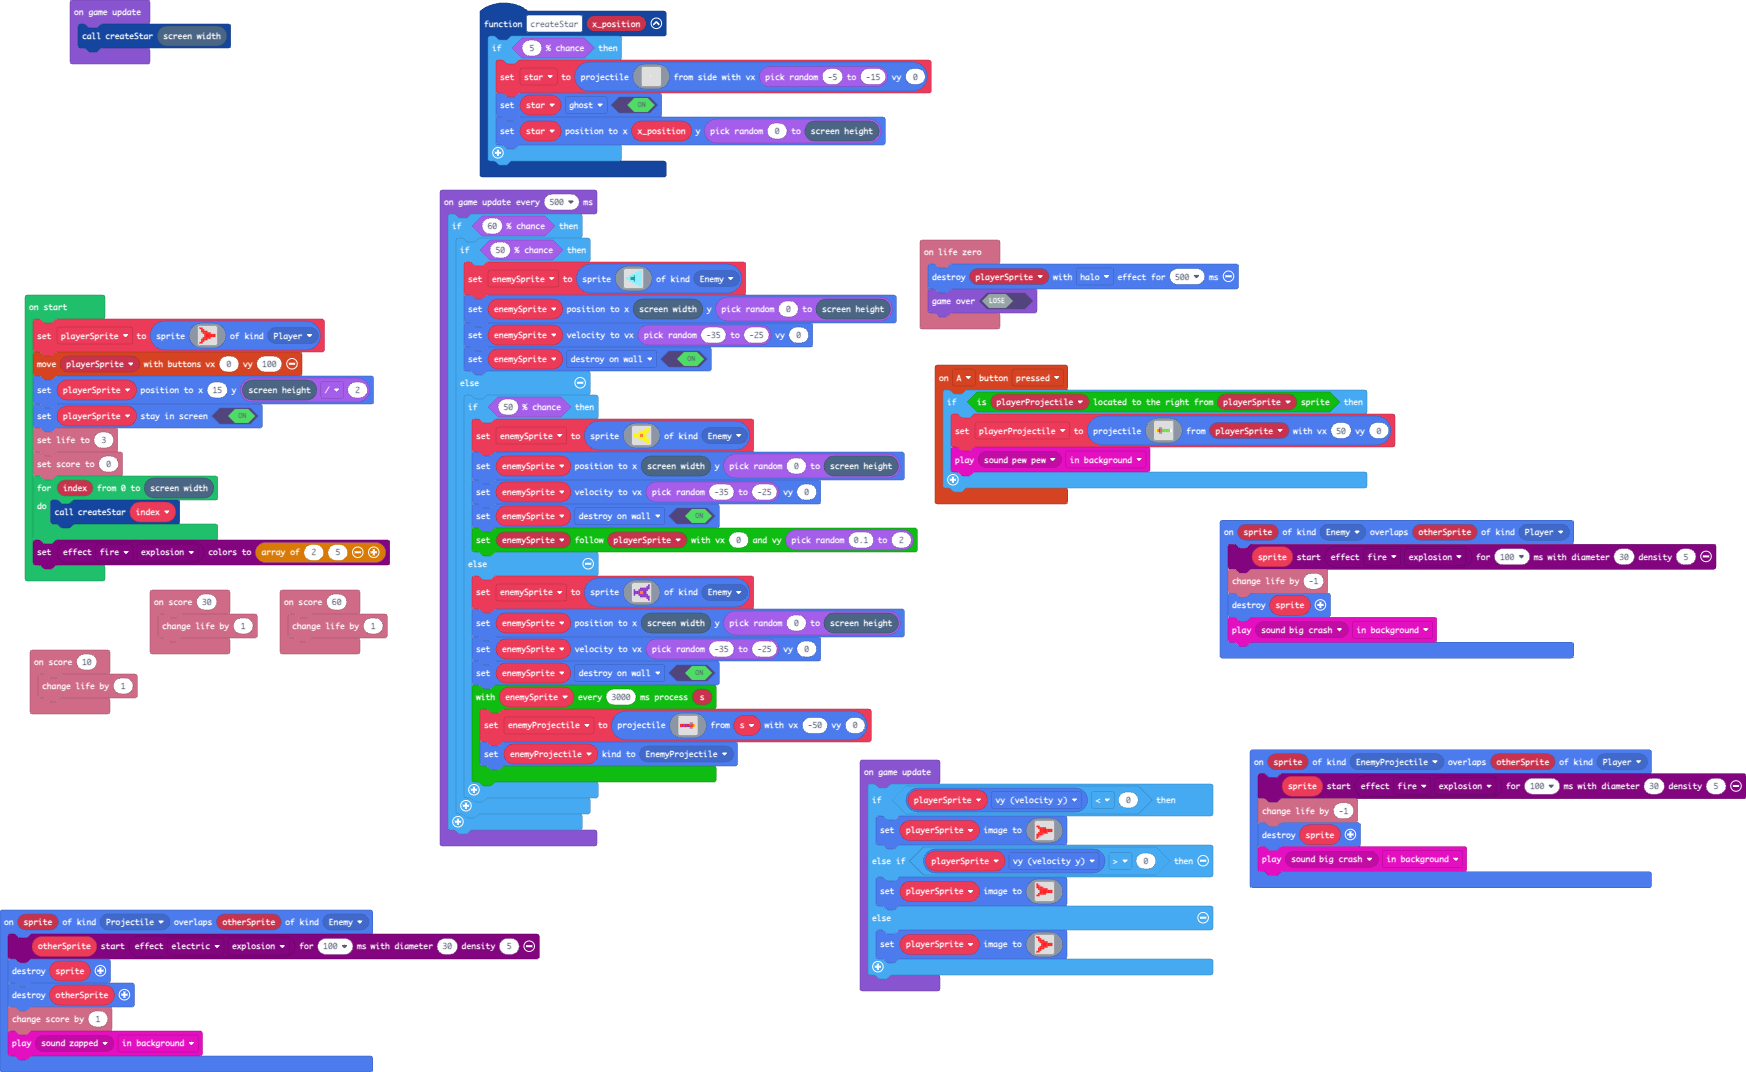
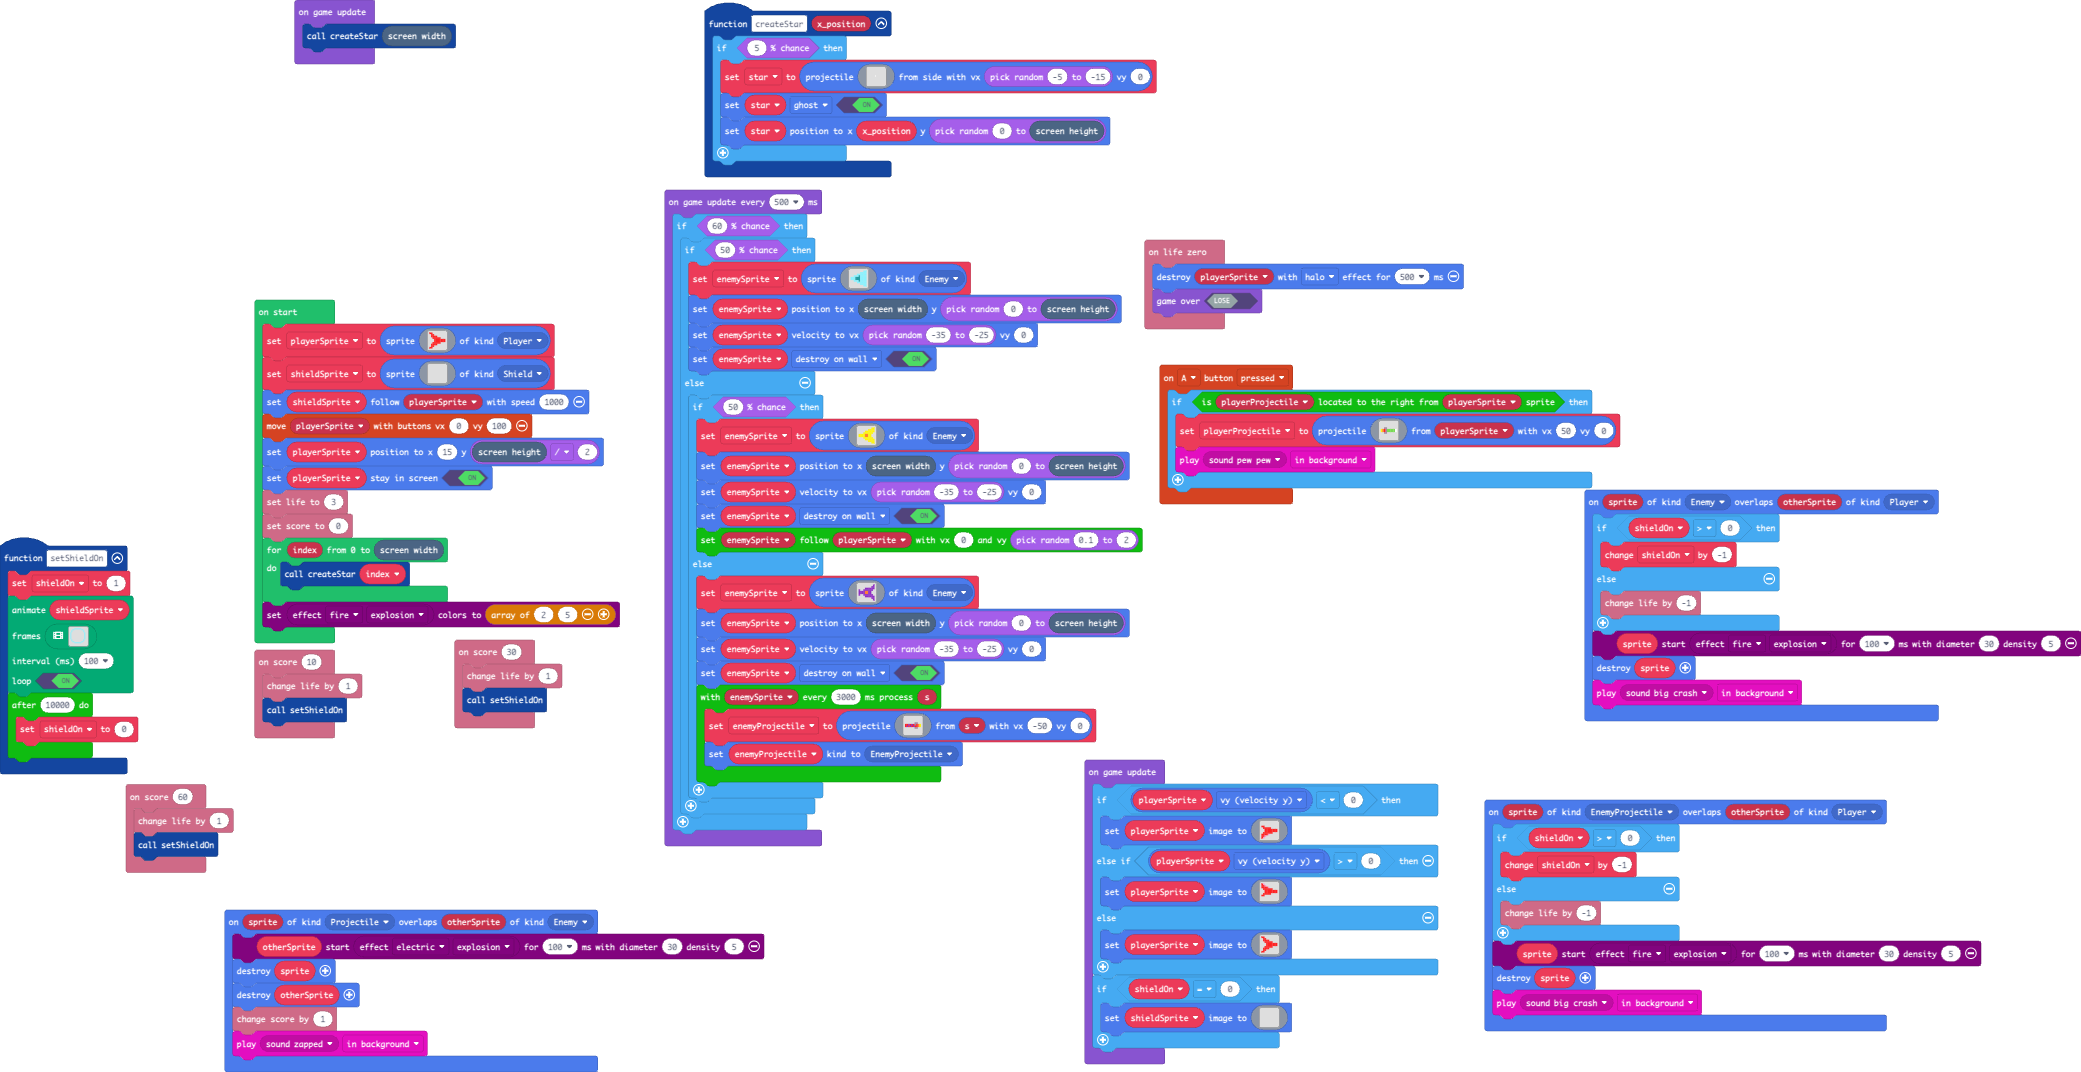
shield

diff --git a/main.ts b/main.ts
@@ -1,9 +1,14 @@
 namespace SpriteKind {
     export const EnemyProjectile = SpriteKind.create()
+    export const Shield = SpriteKind.create()
 }
 sprites.onOverlap(SpriteKind.EnemyProjectile, SpriteKind.Player, function (sprite, otherSprite) {
+    if (shieldOn > 0) {
+        shieldOn += -1
+    } else {
+        info.changeLifeBy(-1)
+    }
     extraEffects.createSpreadEffectOnAnchor(sprite, extraEffects.createFullPresetsSpreadEffectData(ExtraEffectPresetColor.Fire, ExtraEffectPresetShape.Explosion), 100, 30, 5)
-    info.changeLifeBy(-1)
     sprites.destroy(sprite)
     music.play(music.melodyPlayable(music.bigCrash), music.PlaybackMode.InBackground)
 })
@@ -50,16 +55,103 @@ function createStar (x_position: number) {
 }
 info.onScore(60, function () {
     info.changeLifeBy(1)
+    setShieldOn()
 })
 info.onScore(30, function () {
     info.changeLifeBy(1)
+    setShieldOn()
 })
 info.onScore(10, function () {
     info.changeLifeBy(1)
+    setShieldOn()
 })
+function setShieldOn () {
+    shieldOn = 1
+    animation.runImageAnimation(
+    shieldSprite,
+    [img`
+        . . . . 9 9 9 9 9 9 9 . . . . . 
+        . . 9 9 . . . . . . . 9 9 . . . 
+        . 9 . . . . . . . . . . . 9 . . 
+        . 9 . . . . . . . . . . . 9 . . 
+        9 . . . . . . . . . . . . . 9 . 
+        9 . . . . . . . . . . . . . 9 . 
+        9 . . . . . . . . . . . . . 9 . 
+        9 . . . . . . . . . . . . . 9 . 
+        9 . . . . . . . . . . . . . 9 . 
+        9 . . . . . . . . . . . . . 9 . 
+        9 . . . . . . . . . . . . . 9 . 
+        . 9 . . . . . . . . . . . 9 . . 
+        . 9 . . . . . . . . . . . 9 . . 
+        . . 9 9 . . . . . . . 9 9 . . . 
+        . . . . 9 9 9 9 9 9 9 . . . . . 
+        . . . . . . . . . . . . . . . . 
+        `,img`
+        . . . . . 9 9 9 9 9 9 9 . . . . 
+        . . . 9 9 . . . . . . . 9 9 . . 
+        . . 9 . . . . . . . . . . . 9 . 
+        . . 9 . . . . . . . . . . . 9 . 
+        . 9 . . . . . . . . . . . . . 9 
+        . 9 . . . . . . . . . . . . . 9 
+        . 9 . . . . . . . . . . . . . 9 
+        . 9 . . . . . . . . . . . . . 9 
+        . 9 . . . . . . . . . . . . . 9 
+        . 9 . . . . . . . . . . . . . 9 
+        . 9 . . . . . . . . . . . . . 9 
+        . . 9 . . . . . . . . . . . 9 . 
+        . . 9 . . . . . . . . . . . 9 . 
+        . . . 9 9 . . . . . . . 9 9 . . 
+        . . . . . 9 9 9 9 9 9 9 . . . . 
+        . . . . . . . . . . . . . . . . 
+        `,img`
+        . . . . . . . . . . . . . . . . 
+        . . . . . 9 9 9 9 9 9 9 . . . . 
+        . . . 9 9 . . . . . . . 9 9 . . 
+        . . 9 . . . . . . . . . . . 9 . 
+        . . 9 . . . . . . . . . . . 9 . 
+        . 9 . . . . . . . . . . . . . 9 
+        . 9 . . . . . . . . . . . . . 9 
+        . 9 . . . . . . . . . . . . . 9 
+        . 9 . . . . . . . . . . . . . 9 
+        . 9 . . . . . . . . . . . . . 9 
+        . 9 . . . . . . . . . . . . . 9 
+        . 9 . . . . . . . . . . . . . 9 
+        . . 9 . . . . . . . . . . . 9 . 
+        . . 9 . . . . . . . . . . . 9 . 
+        . . . 9 9 . . . . . . . 9 9 . . 
+        . . . . . 9 9 9 9 9 9 9 . . . . 
+        `,img`
+        . . . . . . . . . . . . . . . . 
+        . . . . 9 9 9 9 9 9 9 . . . . . 
+        . . 9 9 . . . . . . . 9 9 . . . 
+        . 9 . . . . . . . . . . . 9 . . 
+        . 9 . . . . . . . . . . . 9 . . 
+        9 . . . . . . . . . . . . . 9 . 
+        9 . . . . . . . . . . . . . 9 . 
+        9 . . . . . . . . . . . . . 9 . 
+        9 . . . . . . . . . . . . . 9 . 
+        9 . . . . . . . . . . . . . 9 . 
+        9 . . . . . . . . . . . . . 9 . 
+        9 . . . . . . . . . . . . . 9 . 
+        . 9 . . . . . . . . . . . 9 . . 
+        . 9 . . . . . . . . . . . 9 . . 
+        . . 9 9 . . . . . . . 9 9 . . . 
+        . . . . 9 9 9 9 9 9 9 . . . . . 
+        `],
+    100,
+    true
+    )
+    custom.after(10000, function () {
+        shieldOn = 0
+    })
+}
 sprites.onOverlap(SpriteKind.Enemy, SpriteKind.Player, function (sprite, otherSprite) {
+    if (shieldOn > 0) {
+        shieldOn += -1
+    } else {
+        info.changeLifeBy(-1)
+    }
     extraEffects.createSpreadEffectOnAnchor(sprite, extraEffects.createFullPresetsSpreadEffectData(ExtraEffectPresetColor.Fire, ExtraEffectPresetShape.Explosion), 100, 30, 5)
-    info.changeLifeBy(-1)
     sprites.destroy(sprite)
     music.play(music.melodyPlayable(music.bigCrash), music.PlaybackMode.InBackground)
 })
@@ -78,6 +170,8 @@ let enemyProjectile: Sprite = null
 let enemySprite: Sprite = null
 let star: Sprite = null
 let playerProjectile: Sprite = null
+let shieldOn = 0
+let shieldSprite: Sprite = null
 let playerSprite: Sprite = null
 playerSprite = sprites.create(img`
     2 2 . . . . . . . . 
@@ -91,6 +185,25 @@ playerSprite = sprites.create(img`
     . 2 2 . . . . . . . 
     2 2 . . . . . . . . 
     `, SpriteKind.Player)
+shieldSprite = sprites.create(img`
+    . . . . . . . . . . . . . . . . 
+    . . . . . . . . . . . . . . . . 
+    . . . . . . . . . . . . . . . . 
+    . . . . . . . . . . . . . . . . 
+    . . . . . . . . . . . . . . . . 
+    . . . . . . . . . . . . . . . . 
+    . . . . . . . . . . . . . . . . 
+    . . . . . . . . . . . . . . . . 
+    . . . . . . . . . . . . . . . . 
+    . . . . . . . . . . . . . . . . 
+    . . . . . . . . . . . . . . . . 
+    . . . . . . . . . . . . . . . . 
+    . . . . . . . . . . . . . . . . 
+    . . . . . . . . . . . . . . . . 
+    . . . . . . . . . . . . . . . . 
+    . . . . . . . . . . . . . . . . 
+    `, SpriteKind.Shield)
+shieldSprite.follow(playerSprite, 1000)
 controller.moveSprite(playerSprite, 0, 100)
 playerSprite.setPosition(15, scene.screenHeight() / 2)
 playerSprite.setStayInScreen(true)
@@ -142,6 +255,26 @@ game.onUpdate(function () {
             . 2 2 2 2 . . . . . 
             . 2 2 . . . . . . . 
             2 2 . . . . . . . . 
+            `)
+    }
+    if (shieldOn == 0) {
+        shieldSprite.setImage(img`
+            . . . . . . . . . . . . . . . . 
+            . . . . . . . . . . . . . . . . 
+            . . . . . . . . . . . . . . . . 
+            . . . . . . . . . . . . . . . . 
+            . . . . . . . . . . . . . . . . 
+            . . . . . . . . . . . . . . . . 
+            . . . . . . . . . . . . . . . . 
+            . . . . . . . . . . . . . . . . 
+            . . . . . . . . . . . . . . . . 
+            . . . . . . . . . . . . . . . . 
+            . . . . . . . . . . . . . . . . 
+            . . . . . . . . . . . . . . . . 
+            . . . . . . . . . . . . . . . . 
+            . . . . . . . . . . . . . . . . 
+            . . . . . . . . . . . . . . . . 
+            . . . . . . . . . . . . . . . . 
             `)
     }
 })

diff --git a/custom.ts b/custom.ts
@@ -61,6 +61,18 @@ namespace custom {
     }
 
     /**
+     * After a certain amount of time, the attached code will run.
+     * Blocks after this one will run without waiting.
+     */
+    //% block="after $time do"
+    //% time.defl=500
+    //% handlerStatement=1
+    //% %time=timePicker ms"
+    export function after(time: number, thenDo: () => void) {
+        setTimeout(thenDo, time)
+    }
+    
+    /**
      * Returns true if the given sprite does not exist,
      * or is destroyed, and false otherwise.
      */
